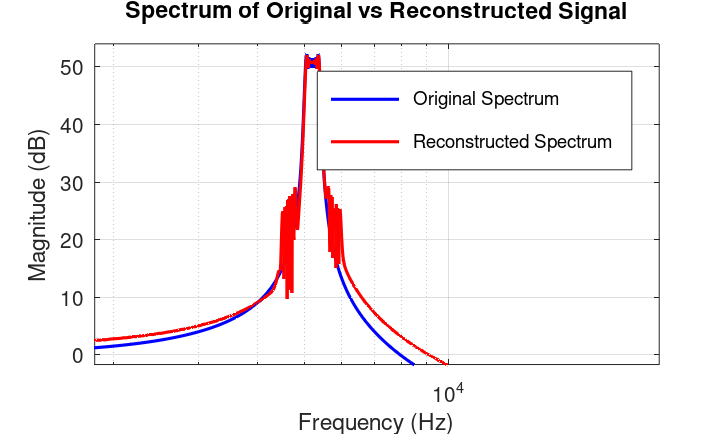
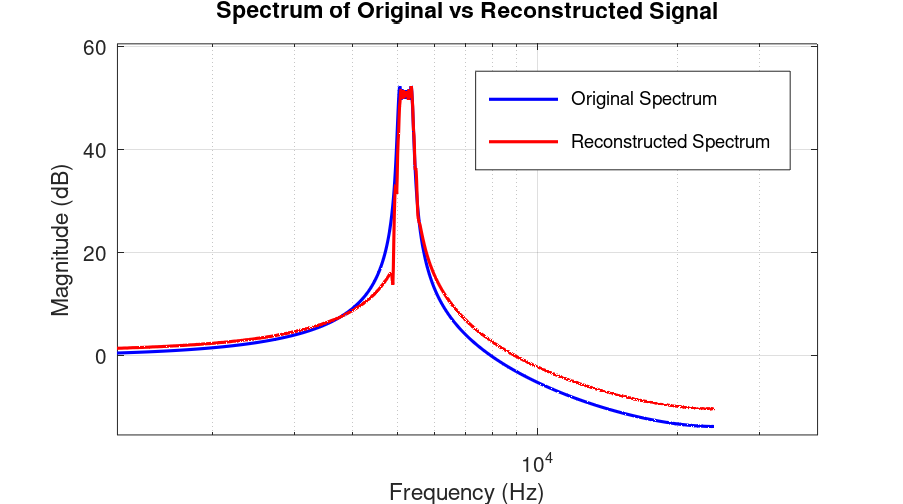
Window size change

diff --git a/TP3_Filter-bank/bands_breakdown_frequency.m b/TP3_Filter-bank/bands_breakdown_frequency.m
@@ -7,7 +7,7 @@ num_bands = 10; % Number of octave bands
 frequencies = f_min * 2.^(0:num_bands-1); % Center frequencies for each band
 
 x = load('pcm_48k.mat', '-mat').pcm_48(5e4:1e5); % Signal input
-M = 256; % Window size
+M = 1024; % Window size
 overlap_fraction = 0.67; % 60% overlap
 R = floor(M * (1 - overlap_fraction)); % Hop size
 
